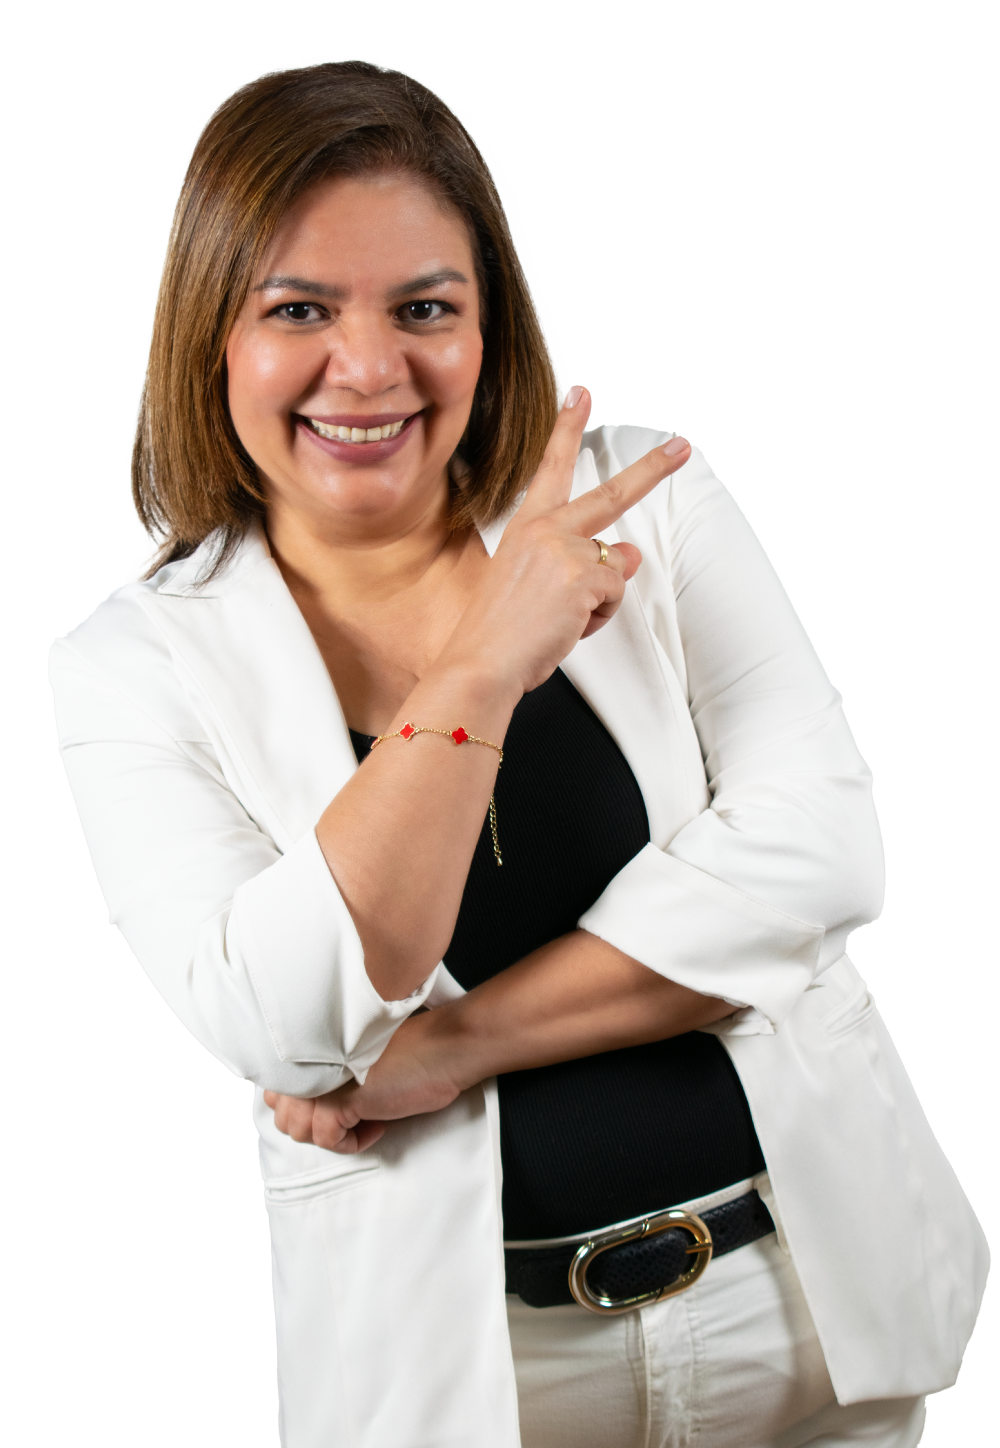
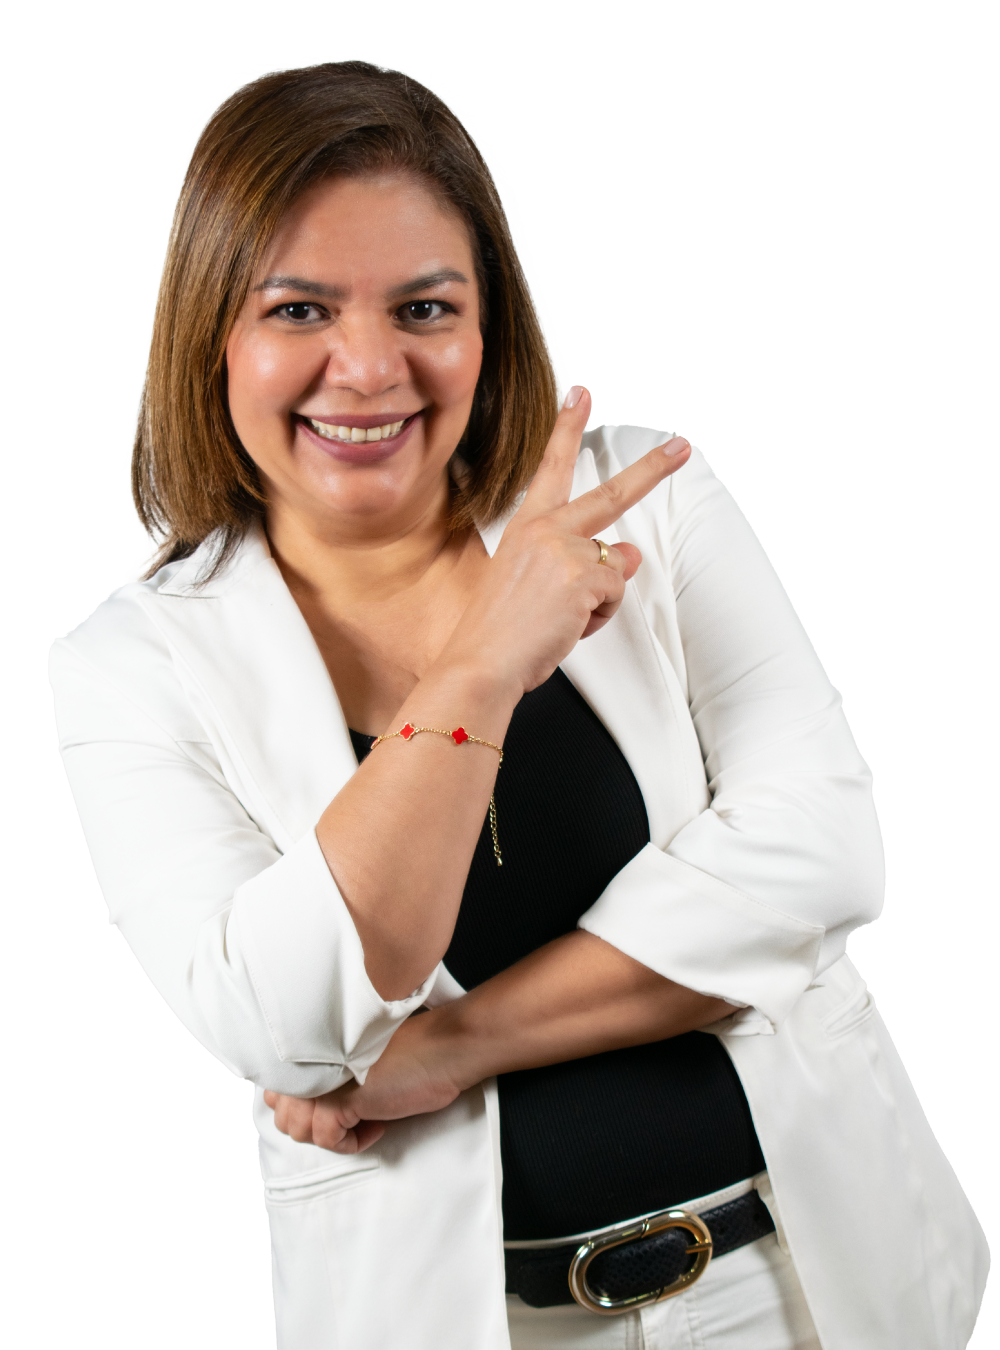
Recortar foto sobre-mí para mostrar correa y ajustar aspect-ratio
Se recorta ana2.png a 1000x1350 para que termine a la altura de la
correa con hebilla. Se cambia aspect-ratio del frame de 4/5 a 3/4
para mostrar la imagen completa sin recorte CSS.

diff --git a/css/styles.css b/css/styles.css
@@ -176,7 +176,7 @@ section{position:relative}
 .about-grid{display:grid;grid-template-columns:0.9fr 1.1fr;gap:72px;align-items:center}
 .about-photo{position:relative}
 .about-photo .frame{
-  aspect-ratio:4/5;border-radius:4px;overflow:hidden;position:relative;
+  aspect-ratio:3/4;border-radius:4px;overflow:hidden;position:relative;
   display:flex;align-items:flex-end;
   background:radial-gradient(95% 75% at 50% 16%, #1d1d1d 0%, #101010 55%, #0a0a0a 100%);
 }